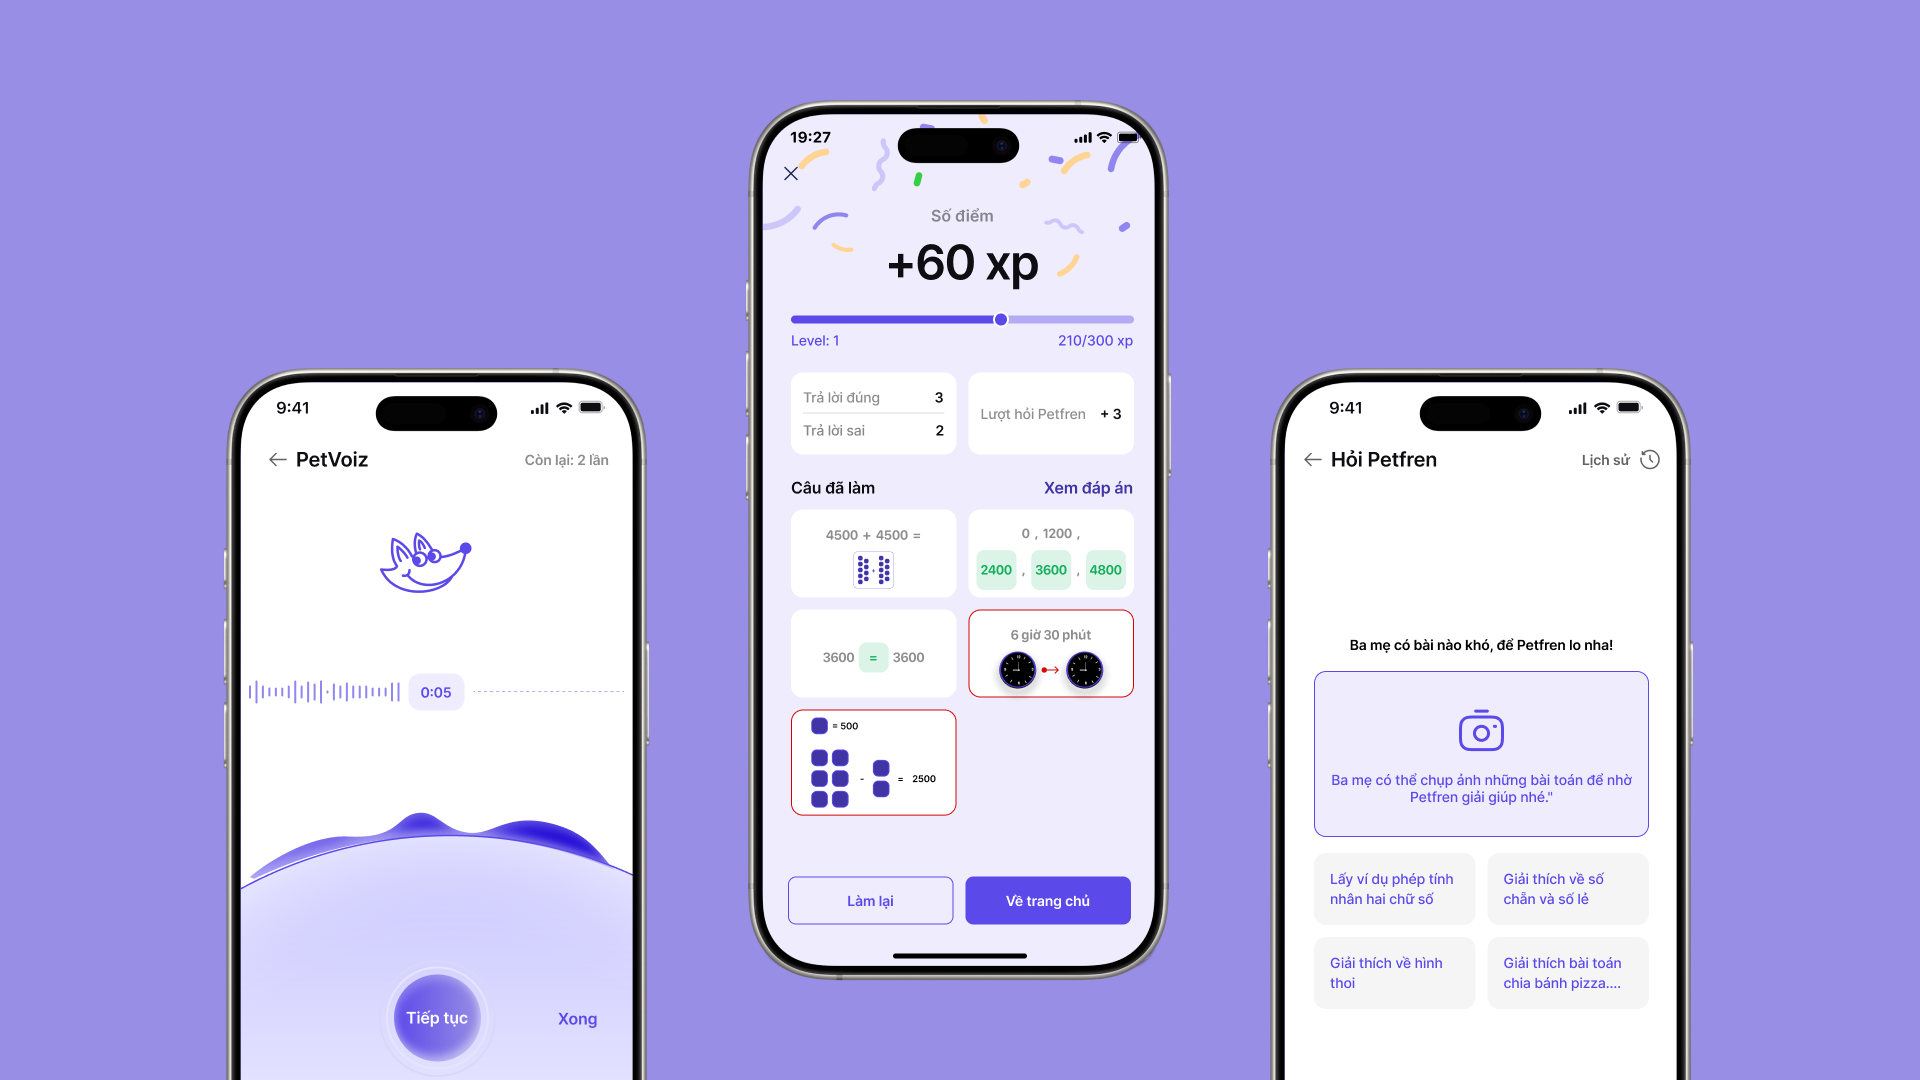
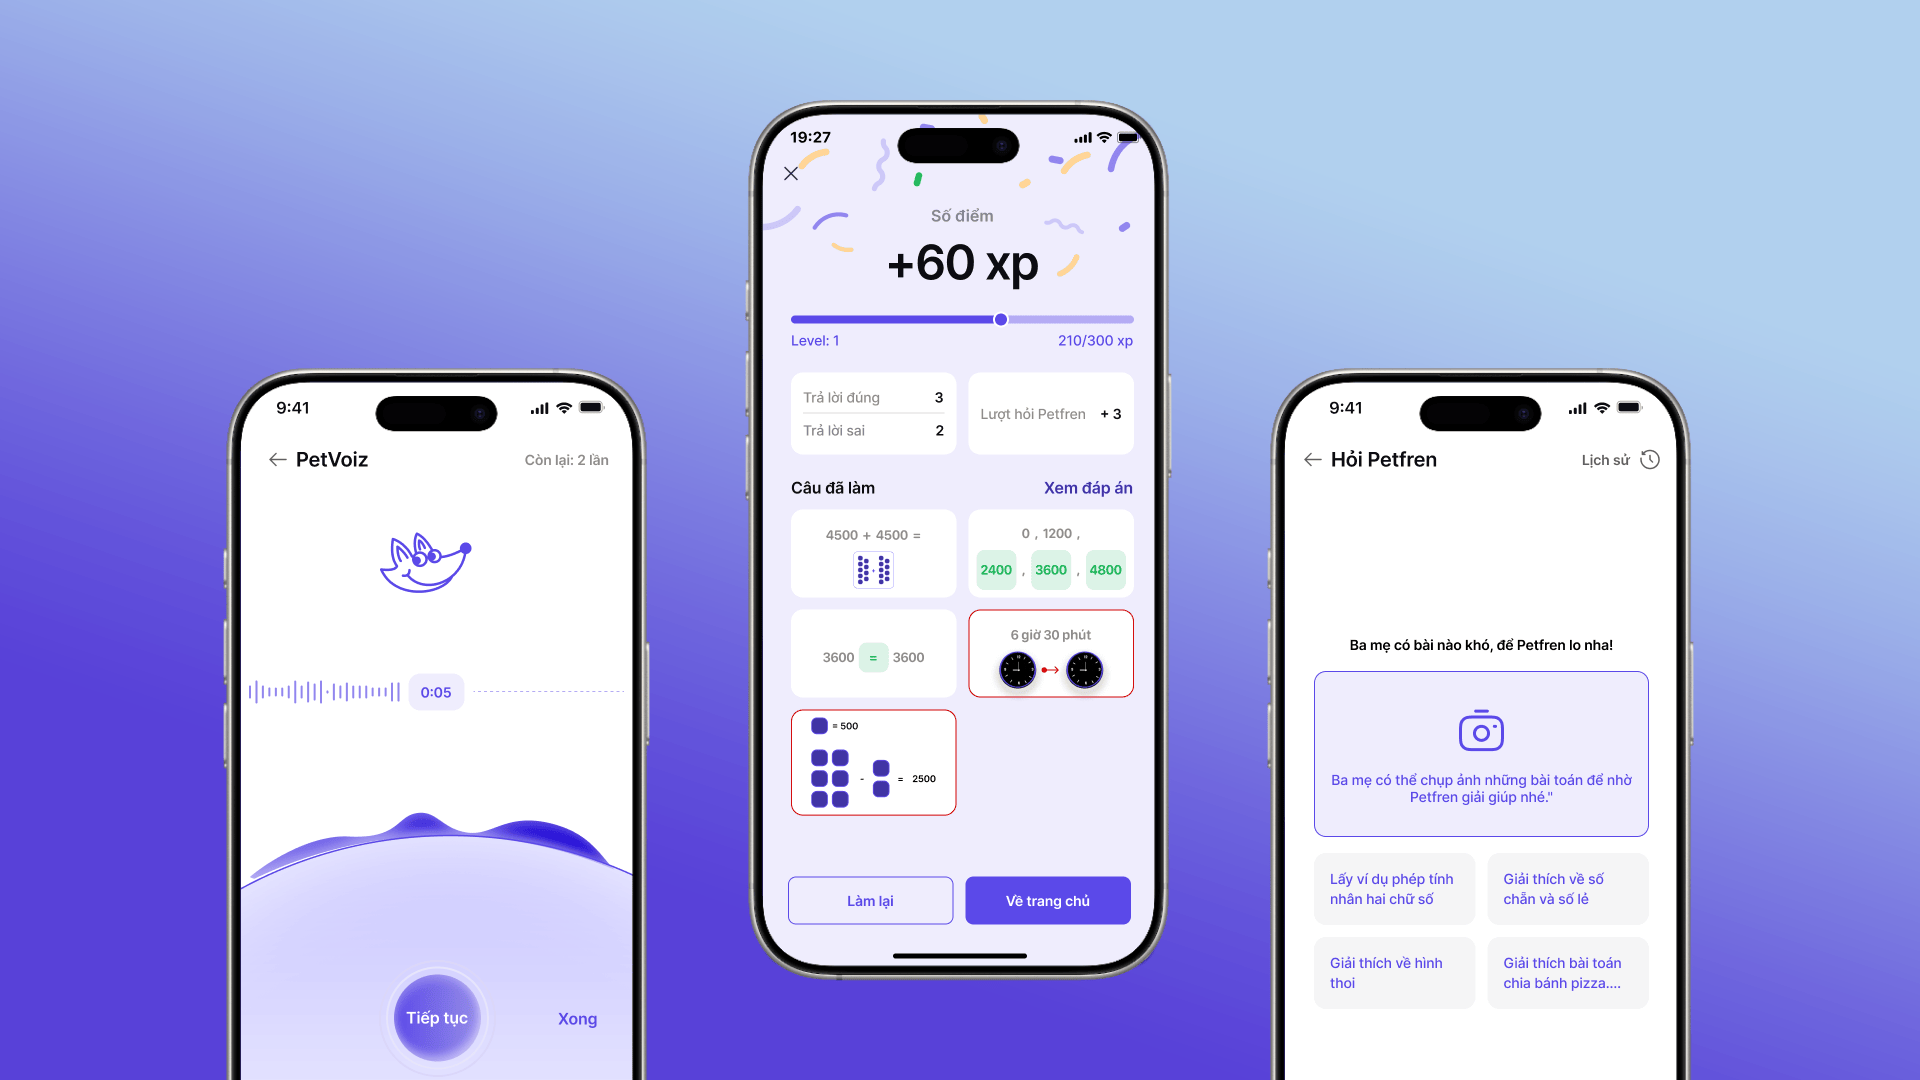
Optimized images again

diff --git a/assets/js/lazy-loading-images-not-first.js b/assets/js/lazy-loading-images-not-first.js
@@ -1,8 +1,15 @@
-const listItems = document.querySelectorAll('li:not(:first-child)');
+const otherListItems = document.querySelectorAll("li:not(:first-child)");
+const firstItem = document.querySelector("li:first-child");
 
-listItems.forEach(item => {
-    const images = item.querySelectorAll('img');
-    images.forEach(img => {
-        img.loading = 'lazy';
-    });
+firstItem.querySelectorAll("img").forEach((img) => {
+  img.loading = "eager";
+  img.fetchPriority = "high";
+});
+
+otherListItems.forEach((item) => {
+  const images = item.querySelectorAll("img");
+  images.forEach((img) => {
+    img.loading = "lazy";
+    img.fetchPriority = "low";
+  });
 });